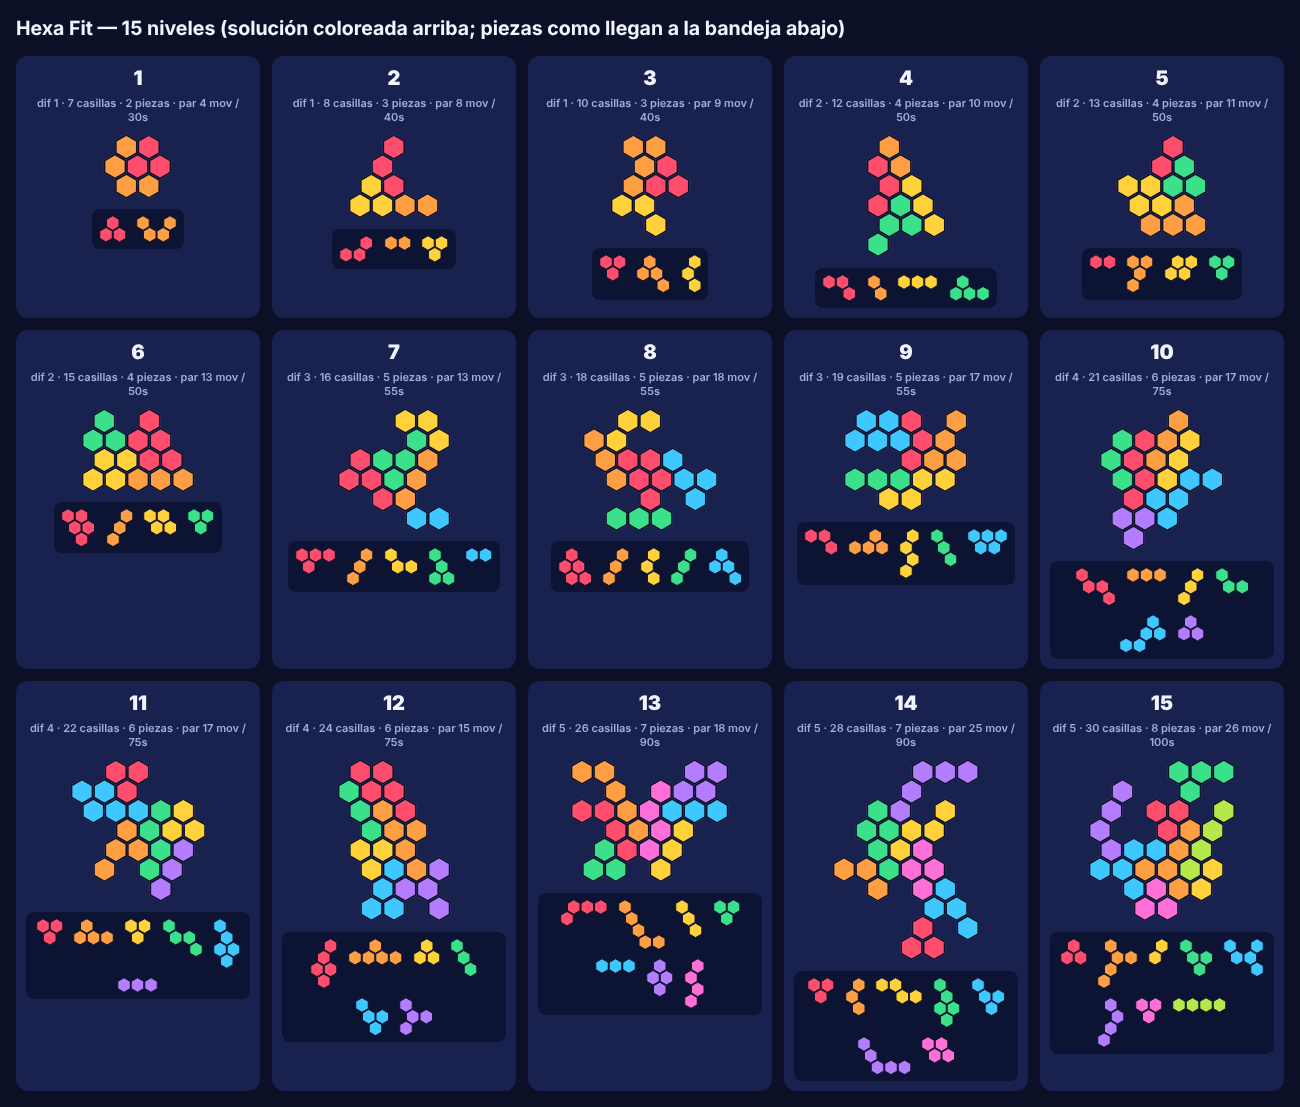
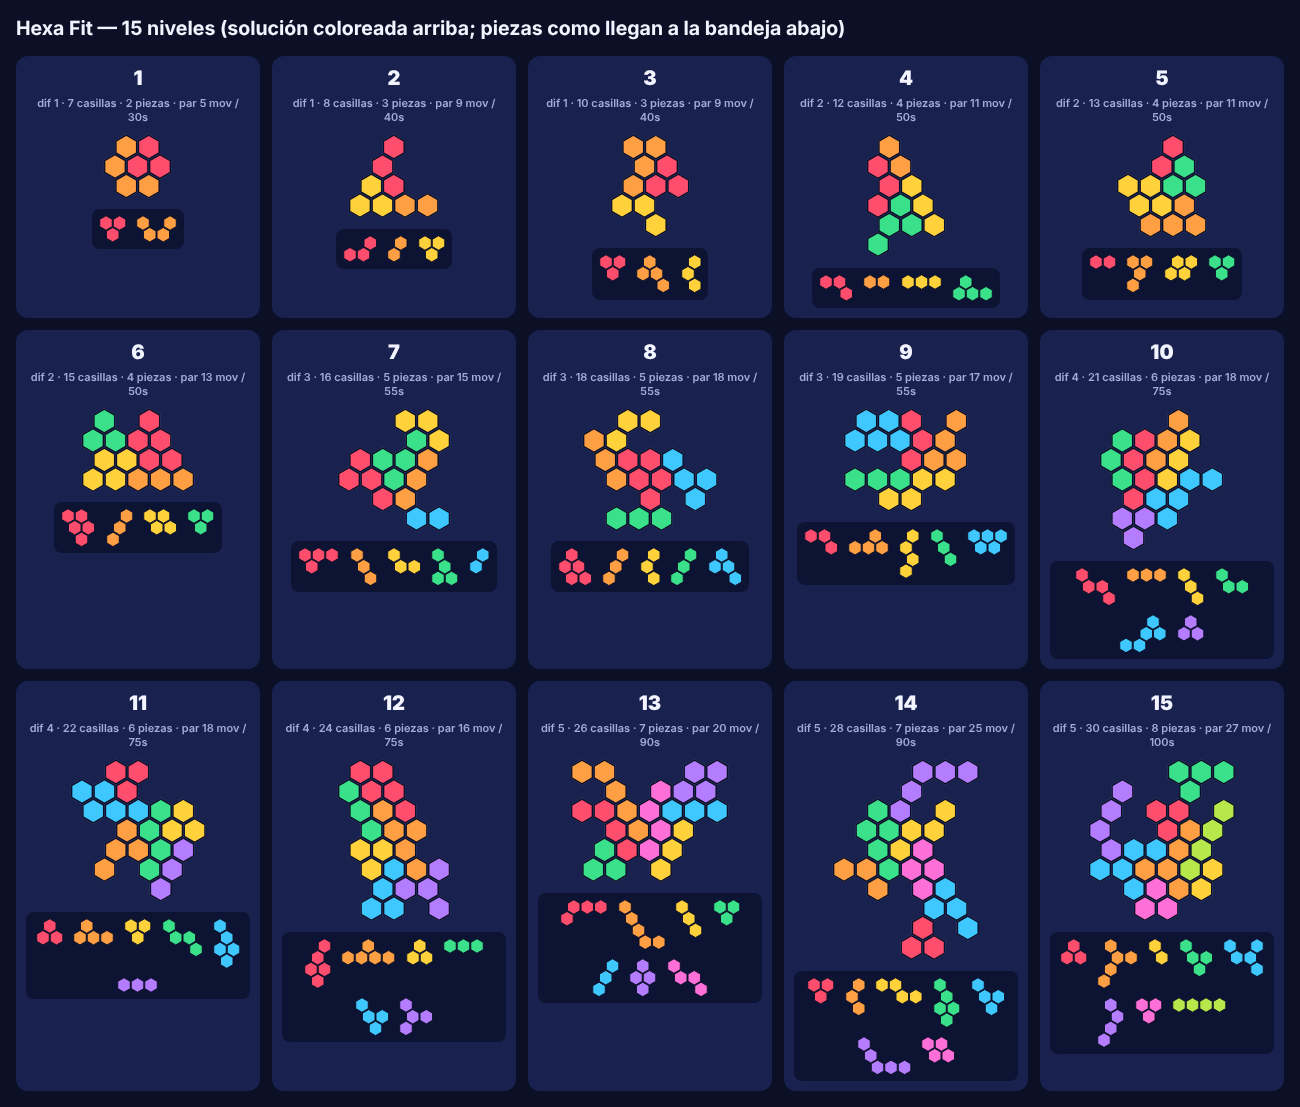
fix(levels): turn solved pieces, give each Sort level its own seed, report broken files (#24)

diff --git a/AI_USAGE.md b/AI_USAGE.md
@@ -41,9 +41,12 @@ Project rules for agents: [AGENTS.md](AGENTS.md) and [CLAUDE.md](CLAUDE.md).
 | 2026-11-08 | [Professor's answers of 2026-11-05 applied to the requirements](#2026-11-08--professors-answers-of-2026-11-05-applied-to-the-requirements-docs-no-task-document) |
 | 2026-11-09 | [README and AI usage log adjusted after reviewing reference repositories](#2026-11-09--readme-and-ai-usage-log-adjusted-after-reviewing-reference-repositories-docs-no-task-document) |
 | 2026-11-16 | [Level format for Hexa Fit and Hexa Sort](#2026-11-16--level-format-for-hexa-fit-and-hexa-sort-d3-oddtasks0002-level-formatmd) |
+| 2026-11-16 | [The 15 Hexa Fit and 10 Hexa Sort levels](#2026-11-16--the-15-hexa-fit-and-10-hexa-sort-levels-oddtasks0003-hand-designed-levelsmd) |
+| 2026-11-24 | [Level files checked in CI](#2026-11-24--level-files-checked-in-ci-oddtasks0004-level-checkmd) |
 | 2026-11-25 | [Accept the ADRs, with the module-first layout and ADMIN-only levels](#2026-11-25--accept-the-adrs-with-the-module-first-layout-and-admin-only-levels-oddtasks0005-accept-adrsmd-pr-22) |
 | 2026-11-25 | [Requirements baseline](#2026-11-25--requirements-baseline-docs-no-task-document-pr-21) |
 | 2026-11-25 | [Domain model rules without DDD](#2026-11-25--domain-model-rules-without-ddd-docs-no-task-document) |
+| 2026-11-28 | [Level fixes from the review of #19 and #20](#2026-11-28--level-fixes-from-the-review-of-19-and-20-oddtasks0004-level-checkmd) |
 
 ### 2026-10-27 to 2026-10-28 — Project foundation: course analysis, repositories, tooling and documentation (setup; no task document)
 
@@ -171,6 +174,19 @@ Project rules for agents: [AGENTS.md](AGENTS.md) and [CLAUDE.md](CLAUDE.md).
 - **Team modifications:** Open until the merge: the three members (Eduard Velasco, Ali Dahouk, Valentina Maza) review the catalog and record their agreement in PR #21; any change they ask for is listed here before merging.
 - **Errors and corrections:** None detected yet.
 - **Lessons:** Write each decision with its ID and reason before asking the AI to edit the catalog; the edit is then a translation, not a design step.
+
+### 2026-11-28 — Level fixes from the review of #19 and #20 ([odd/tasks/0004-level-check.md](odd/tasks/0004-level-check.md))
+
+- **Author:** Valentina Maza
+- **Tool / model:** Claude (claude.ai agent session, configured model Claude Opus 5.5).
+- **Task:** Apply Eduard's non-blocking review of #19 and #20: Hexa Fit pieces that reached the tray already solved, two pairs of Hexa Sort levels with the same seed, and a level check that crashed on a broken JSON file.
+- **Prompts (faithful paraphrase; original in Spanish):**
+  - The team's messages with Eduard's review, pasted with no other request.
+- **Result:** 9 Hexa Fit levels with the piece turned 1–3 steps and their par moves recomputed; levels 6 and 9 of Hexa Sort with a new seed won by the simulator within the 3★ threshold; all 11 levels at `version` 2. The check now reports a broken file once and goes on, and enforces both rules; a broken-JSON fixture added.
+- **Team modifications:** Pending review.
+- **Errors and corrections:** The generator of task 0003 counted rotation steps but did not check that a piece symmetric under 180° ends up different from its solved position — detected by Eduard's review; fixed in the levels and now checked in CI. The seed search started at `1000 + number` and could land on the next level's seed — detected by the same review; the check now rejects repeated seeds.
+- **Verification:** `node tool/check-levels.mjs` passes; putting back the old level 7, a repeated seed or a broken file each makes it fail with one clear line.
+- **Lessons:** Every review finding became a rule in CI, so it cannot come back.
 
 ## Critical evaluation
 

diff --git a/levels/README.md b/levels/README.md
@@ -12,24 +12,24 @@ Difficulty grows from 1 to 5, three levels per step in Hexa Fit and two in Hexa 
 
 | # | Difficulty | Cells | Pieces (cells each) | Solutions | Par moves | Par time |
 |---|---|---|---|---|---|---|
-| 1 | 1 | 7 | 2 (3, 4) | 6 | 4 | 30 s |
-| 2 | 1 | 8 | 3 (3, 2, 3) | 2 | 8 | 40 s |
+| 1 | 1 | 7 | 2 (3, 4) | 6 | 5 | 30 s |
+| 2 | 1 | 8 | 3 (3, 2, 3) | 2 | 9 | 40 s |
 | 3 | 1 | 10 | 3 (3, 4, 3) | 2 | 9 | 40 s |
-| 4 | 2 | 12 | 4 (3, 2, 3, 4) | 6 | 10 | 50 s |
+| 4 | 2 | 12 | 4 (3, 2, 3, 4) | 6 | 11 | 50 s |
 | 5 | 2 | 13 | 4 (2, 4, 4, 3) | 4 | 11 | 50 s |
 | 6 | 2 | 15 | 4 (5, 3, 4, 3) | 4 | 13 | 50 s |
-| 7 | 3 | 16 | 5 (4, 3, 3, 4, 2) | 4 | 13 | 55 s |
+| 7 | 3 | 16 | 5 (4, 3, 3, 4, 2) | 4 | 15 | 55 s |
 | 8 | 3 | 18 | 5 (5, 3, 3, 3, 4) | 1 | 18 | 55 s |
 | 9 | 3 | 19 | 5 (3, 4, 4, 3, 5) | 1 | 17 | 55 s |
-| 10 | 4 | 21 | 6 (4, 3, 3, 3, 5, 3) | 1 | 17 | 75 s |
-| 11 | 4 | 22 | 6 (3, 4, 3, 4, 5, 3) | 1 | 17 | 75 s |
-| 12 | 4 | 24 | 6 (5, 5, 3, 3, 4, 4) | 1 | 15 | 75 s |
-| 13 | 5 | 26 | 7 (4, 5, 3, 3, 3, 4, 4) | 1 | 18 | 90 s |
+| 10 | 4 | 21 | 6 (4, 3, 3, 3, 5, 3) | 1 | 18 | 75 s |
+| 11 | 4 | 22 | 6 (3, 4, 3, 4, 5, 3) | 1 | 18 | 75 s |
+| 12 | 4 | 24 | 6 (5, 5, 3, 3, 4, 4) | 1 | 16 | 75 s |
+| 13 | 5 | 26 | 7 (4, 5, 3, 3, 3, 4, 4) | 1 | 20 | 90 s |
 | 14 | 5 | 28 | 7 (3, 3, 4, 5, 4, 5, 4) | 1 | 25 | 90 s |
-| 15 | 5 | 30 | 8 (3, 5, 2, 4, 5, 4, 3, 4) | 1 | 26 | 100 s |
+| 15 | 5 | 30 | 8 (3, 5, 2, 4, 5, 4, 3, 4) | 1 | 27 | 100 s |
 
 How the difficulty grows: more cells and pieces, and fewer ways to solve the figure (counted by an exact-cover solver); from level 8 every figure has one solution.
-Each piece reaches the tray turned 1 to 3 rotation steps away from its place in the reference solution, so the player has to rotate it.
+Each piece reaches the tray turned 1 to 3 rotation steps away from its place in the reference solution, so the player has to rotate it; only a piece that looks the same in every rotation arrives as it is. `tool/check-levels.mjs` enforces it.
 
 - **Par moves** = pieces placed + the fewest rotation steps of the reference solution + half the pieces, rounded up, as room for mistakes (FIT-3, FIT-4).
 - **Par time** = 14 s + 8 s per piece (+10 s at difficulty 4, +20 s at 5), rounded up to 5 s (FIT-3, FIT-5).
@@ -59,4 +59,4 @@ The greedy player wins 100% of levels 1–4 and about 80% of levels 9–10.
 
 Edit its file and add 1 to `version`, so synced clients download it again (FR-14). Never change `levelId` or reuse a `number`.
 
-Then run `npm run check:levels`. It checks every file against the schema and the rules of `docs/level-format.md`, the numbering and the difficulty order, and that every Hexa Fit level has a solution that covers its figure. It also runs before every push that touches a level and in CI.
+Then run `npm run check:levels`. Every Hexa Sort level needs its own seed, so no two levels offer the same stacks. It checks every file against the schema and the rules of `docs/level-format.md`, the numbering and the difficulty order, and that every Hexa Fit level has a solution that covers its figure. It also runs before every push that touches a level and in CI.

diff --git a/odd/tasks/0004-level-check.md b/odd/tasks/0004-level-check.md
@@ -23,7 +23,7 @@ Tasks 0002 and 0003 checked the levels with a script that stayed outside the rep
 
 - **S1** (FR-23): every file in `levels/` and `docs/schemas/examples/` validates against `docs/schemas/level.schema.json`.
 - **S2** (FR-40, FR-43): the rules L1, L2, F1–F5, S1 and S2 of `docs/level-format.md` hold for every file.
-- **S3** (FR-46, FR-55): in each folder of `levels/`, the file name is the `levelId`, numbers run 1..N with no gap, difficulty never decreases, and every Hexa Fit level has a solution.
+- **S3** (FR-46, FR-55, FIT-2, SORT-6): in each folder of `levels/`, the file name is the `levelId`, numbers run 1..N with no gap, difficulty never decreases, every Hexa Fit level has a solution, no Hexa Fit piece arrives already turned to its solved position, and no two Hexa Sort levels share a seed.
 - **S4**: each file in `tool/fixtures/invalid-levels/` is rejected, so a check that stops working fails the build.
 - **S5** (C-13): the check runs in CI on every pull request and before a push that touches a level.
 
@@ -62,3 +62,4 @@ Review and merge after #19.
 
 - 2026-11-24 — Valentina Maza (verbatim): "si" (answering the offer to put the level check in the repository and CI, and to prepare the script that copies the levels to the app).
 - 2026-11-24 — Valentina Maza with Claude (Opus 5.5, claude.ai): T1–T4 done; the check was proved by breaking one Fit solution and one Sort difficulty and seeing it fail.
+- 2026-11-28 — Review fixes (Valentina with Claude): a file that is not valid JSON or fails the schema is reported once and left out of the set checks (no crash, no cascade of numbering errors); new set rules: no Hexa Fit piece already turned to its solved position, no two Hexa Sort levels with the same seed; fixture `not-json.json` added (10 fixtures).

diff --git a/odd/tasks/0003-hand-designed-levels.md b/odd/tasks/0003-hand-designed-levels.md
@@ -72,3 +72,4 @@ After the level format is approved, mark this PR ready; Valentina play-tests T5 
 - 2026-11-16 15:39 — Valentina (prompt): "si!!" (answering: "Puedo hacerlos ya con este formato, de fácil a difícil … ¿Le damos con los niveles?")
 - 2026-11-16 — Claude: generated and selected the levels with the scripts described in T1 and T2; validated all 25 files.
 - 2026-11-16 — Decision (Claude, for team review): par formulas and threshold rule written in `levels/README.md`; the Hexa Sort example of task 0002 updated to equal level 1 (thresholds 15 / 10 instead of 24 / 18).
+- 2026-11-28 — Review fixes (Valentina with Claude): 9 Hexa Fit pieces no longer arrive solved (S4 now holds for every piece that is not fully symmetric; par moves recomputed for levels 1, 2, 4, 7, 10–13 and 15); Hexa Sort levels 6 and 9 have their own seed (1600, 1902); the 11 levels are at `version` 2; `docs/schemas/examples/hexa-fit-001.json` equals level 1 again.

diff --git a/docs/level-format.md b/docs/level-format.md
@@ -50,9 +50,9 @@ Unknown fields are errors everywhere (`additionalProperties: false`), so a typo 
 
 ```json
 "payload": {
-  "pieces": [ { "cells": [[0, 0], [1, 0], [1, -1]] }, { "cells": [[0, 0], [0, 1], [1, 1], [2, 0]] } ],
-  "par": { "moves": 4, "seconds": 30 },
-  "solution": [ { "at": [0, 0], "rotation": 0 }, { "at": [0, -1], "rotation": 1 } ]
+  "pieces": [ { "cells": [[0, 0], [1, -1], [0, -1]] }, { "cells": [[0, 0], [0, 1], [1, 1], [2, 0]] } ],
+  "par": { "moves": 5, "seconds": 30 },
+  "solution": [ { "at": [0, 0], "rotation": 1 }, { "at": [0, -1], "rotation": 1 } ]
 }
 ```
 
